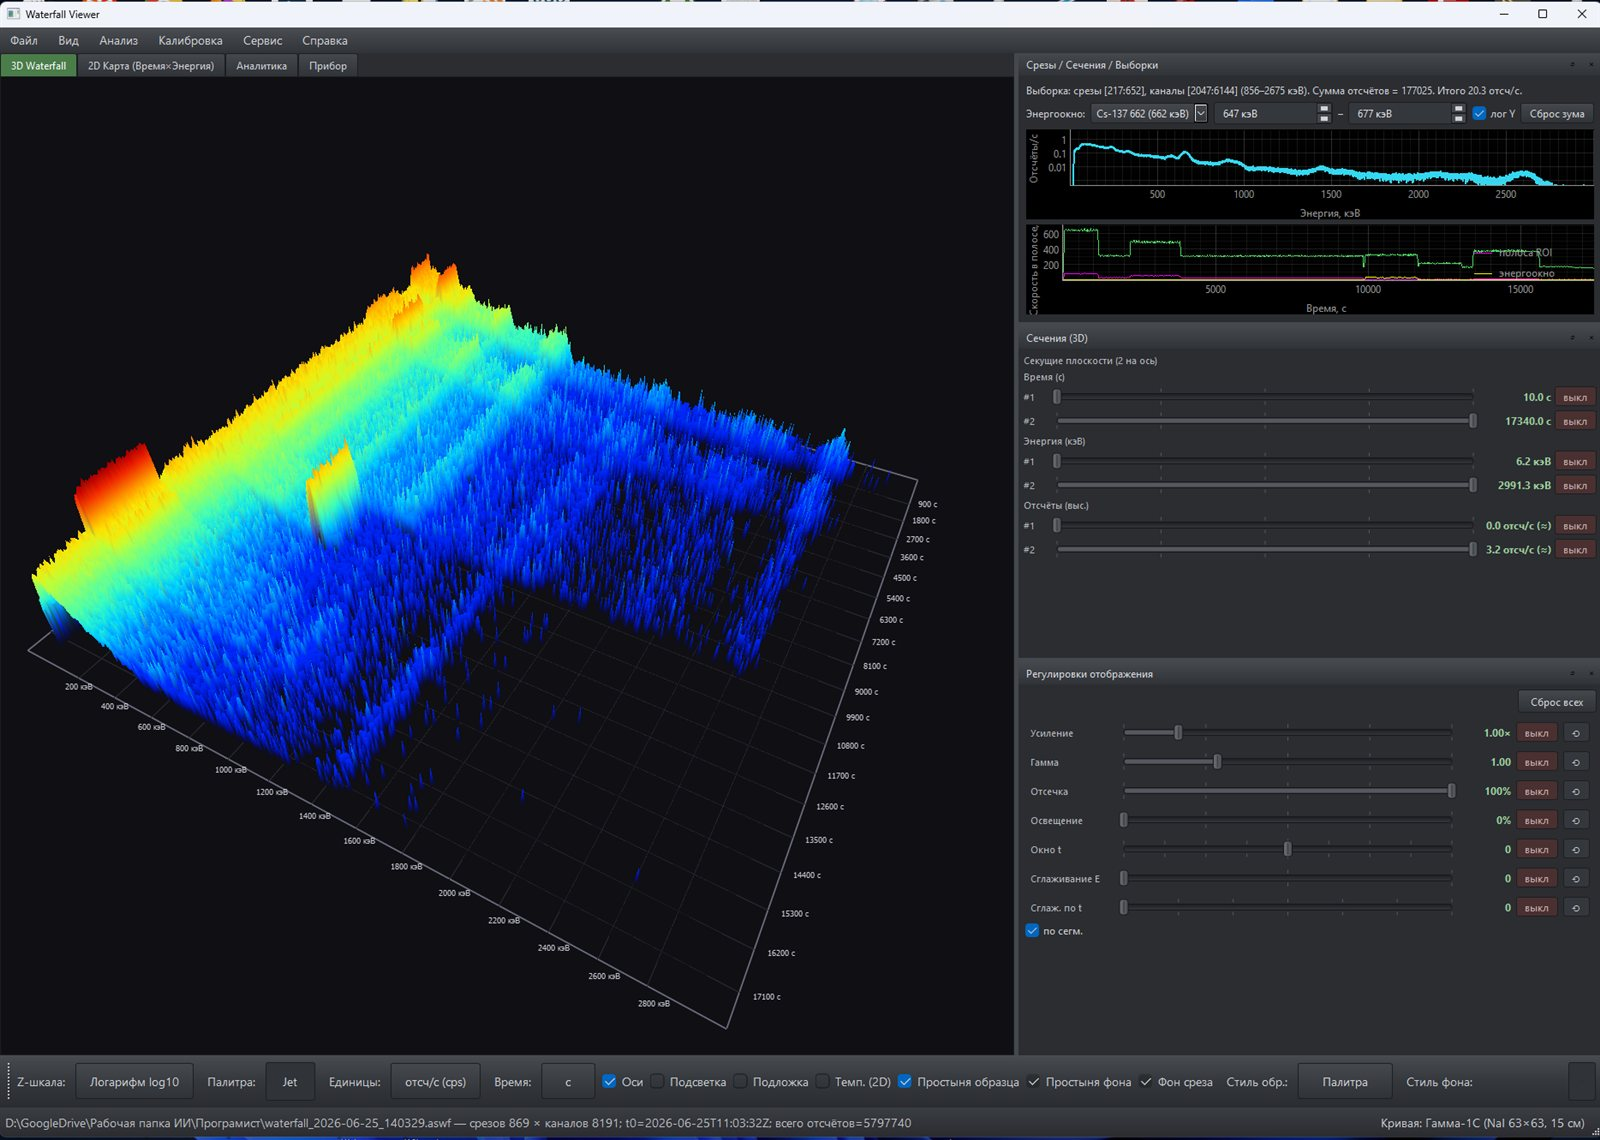
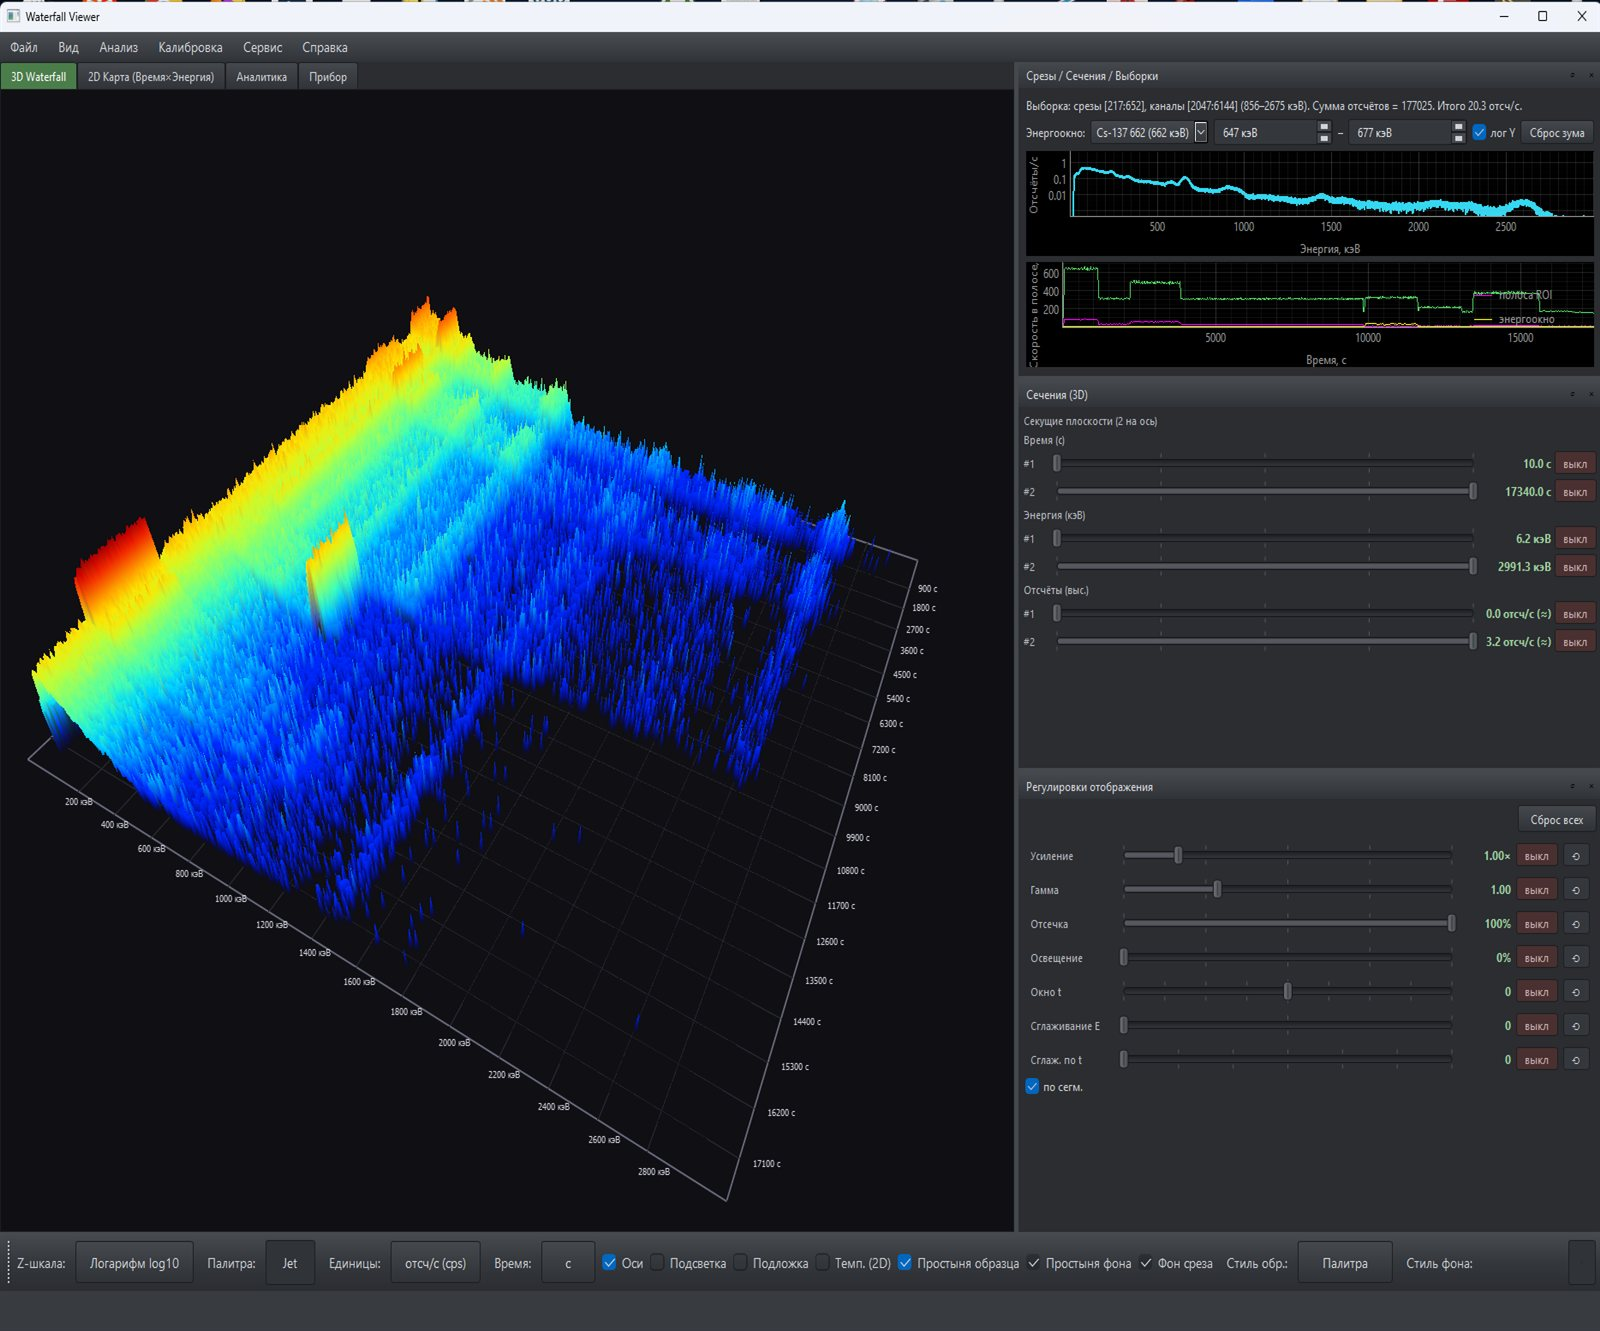
atomspectra-waterfall-family: slider gallery (5 slides incl. viewer waterfalls) + click-to-zoom lightbox; redact file paths in viewer status bars

Changed region(s): [[0.0, 0.9825, 1.0, 1.0]]

diff --git a/atomspectra-waterfall-family/index.html b/atomspectra-waterfall-family/index.html
@@ -214,6 +214,25 @@
   .callout p{margin:0;font-size:13.5px;color:var(--text-dim);}
   .callout strong{color:var(--text);}
 
+  /* слайдер Web UI / водопадов */
+  .slider{margin:22px auto 0;max-width:980px;}
+  .slides{position:relative;border:1px solid var(--border);border-radius:var(--radius);background:var(--panel);overflow:hidden;}
+  .slide{display:none;margin:0;}
+  .slide.active{display:block;}
+  .slide img{width:100%;max-height:620px;object-fit:contain;display:block;cursor:zoom-in;background:var(--panel);}
+  .slide figcaption{font-size:12.5px;color:var(--muted);padding:10px 14px;border-top:1px solid var(--border-soft);text-align:center;}
+  .slider-nav{display:flex;align-items:center;justify-content:center;gap:14px;margin-top:12px;}
+  .s-btn{background:var(--panel);border:1px solid var(--border);color:var(--text-dim);border-radius:100px;width:34px;height:34px;font-size:18px;line-height:1;cursor:pointer;}
+  .s-btn:hover{border-color:var(--accent-border);color:var(--text);}
+  .dots{display:flex;gap:8px;}
+  .dot{width:8px;height:8px;border-radius:50%;background:var(--border);border:none;cursor:pointer;padding:0;}
+  .dot.on{background:var(--accent);}
+  /* лайтбокс */
+  .lb{position:fixed;inset:0;background:rgba(4,7,9,.93);display:none;align-items:center;justify-content:center;z-index:100;padding:28px;cursor:zoom-out;}
+  .lb.open{display:flex;}
+  .lb img{max-width:96vw;max-height:90vh;object-fit:contain;border-radius:8px;box-shadow:0 20px 60px rgba(0,0,0,.6);}
+  .lb .lb-cap{position:fixed;bottom:12px;left:0;right:0;text-align:center;color:#9aa5b0;font-size:13px;pointer-events:none;}
+  .shot img{cursor:zoom-in;}
   footer{border-top:1px solid var(--border-soft);padding:22px 0 34px;}
   .foot-row{display:flex;justify-content:space-between;flex-wrap:wrap;gap:10px;font-size:12.5px;color:var(--muted);}
   footer a:hover{color:var(--accent);}
@@ -398,25 +417,34 @@
       <div class="flow-arrow"><svg viewBox="0 0 16 16" fill="none" stroke="currentColor" stroke-width="1.5"><path d="M1 8h12M9 3l5 5-5 5" stroke-linecap="round" stroke-linejoin="round"/></svg></div>
       <div class="flow-node"><span class="k">Анализ</span><span class="v">waterfall-viewer</span><span class="d">3D/2D спектрограмма, нуклиды</span></div>
     </div>
-    <div style="margin:22px auto 0;max-width:960px;display:grid;grid-template-columns:repeat(auto-fit,minmax(280px,1fr));gap:16px;">
-      <figure style="margin:0;">
-        <div style="border:1px solid var(--border);border-radius:var(--radius);overflow:hidden;background:var(--panel);">
-          <img loading="lazy" src="img/web-waterfall.jpg" style="width:100%;display:block;"
-               alt="Вкладка «Водопад» Web UI шлюза: спектрограмма в палитре Turbo с маркерами линий, запись на flash, срез спектра">
-        </div>
-        <figcaption style="font-size:12.5px;color:var(--muted);margin-top:8px;text-align:center;">
-          Вкладка «Водопад»: спектрограмма на плате, экспорт .n42 / .aswf.
-        </figcaption>
-      </figure>
-      <figure style="margin:0;">
-        <div style="border:1px solid var(--border);border-radius:var(--radius);overflow:hidden;background:var(--panel);">
-          <img loading="lazy" src="img/web-monitor.jpg" style="width:100%;display:block;"
-               alt="Вкладка «Мониторинг» Web UI шлюза: текущий и средний CPS с погрешностями, график по интервалам, таблица отсчётов, выгрузка CSV">
-        </div>
-        <figcaption style="font-size:12.5px;color:var(--muted);margin-top:8px;text-align:center;">
-          Вкладка «Мониторинг»: CPS по интервалам с погрешностями, выгрузка CSV.
-        </figcaption>
-      </figure>
+    <div class="slider" id="webui-slider" aria-roledescription="карусель" aria-label="Вкладки Web UI шлюза">
+      <div class="slides">
+        <figure class="slide active">
+          <img src="img/web-spectrum.jpg" alt="Вкладка «Спектр» Web UI шлюза: живой спектр с маркерами линий Th-232 и K-40, мощность дозы, экспорт XML/CSV/N42/SPE">
+          <figcaption>Вкладка «Спектр»: живой спектр, маркеры линий Th-232 / K-40, мощность дозы, экспорт в 4 формата.</figcaption>
+        </figure>
+        <figure class="slide">
+          <img src="img/web-waterfall.jpg" alt="Вкладка «Водопад» Web UI шлюза: спектрограмма в палитре Turbo с маркерами линий, запись на flash, срез спектра" loading="lazy">
+          <figcaption>Вкладка «Водопад»: спектрограмма на плате, запись во flash, экспорт .n42 / .aswf.</figcaption>
+        </figure>
+        <figure class="slide">
+          <img src="img/web-monitor.jpg" alt="Вкладка «Мониторинг» Web UI шлюза: текущий и средний CPS с погрешностями, график по интервалам, таблица отсчётов, выгрузка CSV" loading="lazy">
+          <figcaption>Вкладка «Мониторинг»: CPS по интервалам с погрешностями, выгрузка CSV.</figcaption>
+        </figure>
+        <figure class="slide">
+          <img src="img/viewer-ui.jpg" alt="waterfall-viewer: 3D-поверхность Время × Энергия × Отсчёты с панелями срезов и сечений" loading="lazy">
+          <figcaption>waterfall-viewer: 3D-водопад суточной записи, панели срезов / сечений / регулировок.</figcaption>
+        </figure>
+        <figure class="slide">
+          <img src="img/viewer-2d.jpg" alt="waterfall-viewer: 2D-карта Время × Энергия с выборкой по энергоокну Cs-137" loading="lazy">
+          <figcaption>waterfall-viewer: 2D-карта Время×Энергия, энергоокно Cs-137 662 кэВ, полоса ROI.</figcaption>
+        </figure>
+      </div>
+      <div class="slider-nav">
+        <button type="button" class="s-btn" data-dir="-1" aria-label="Предыдущий кадр">‹</button>
+        <div class="dots" role="tablist"></div>
+        <button type="button" class="s-btn" data-dir="1" aria-label="Следующий кадр">›</button>
+      </div>
     </div>
   </section>
 
@@ -473,6 +501,58 @@
     <span><a href="https://github.com/VibeEngineering-LLC" target="_blank" rel="noopener">github.com/VibeEngineering-LLC</a></span>
   </div>
 </footer>
+
+<div class="lb" id="lightbox" role="dialog" aria-label="Просмотр изображения">
+  <img id="lb-img" src="" alt="">
+  <div class="lb-cap" id="lb-cap"></div>
+</div>
+
+<script>
+(function(){
+  var slider=document.getElementById('webui-slider');
+  var slides=slider.querySelectorAll('.slide');
+  var dotsBox=slider.querySelector('.dots');
+  var idx=0,timer=null;
+  slides.forEach(function(_,i){
+    var d=document.createElement('button');
+    d.type='button';d.className='dot'+(i===0?' on':'');
+    d.setAttribute('aria-label','Кадр '+(i+1));
+    d.addEventListener('click',function(){go(i);restart();});
+    dotsBox.appendChild(d);
+  });
+  var dots=dotsBox.querySelectorAll('.dot');
+  function go(i){
+    slides[idx].classList.remove('active');dots[idx].classList.remove('on');
+    idx=(i+slides.length)%slides.length;
+    slides[idx].classList.add('active');dots[idx].classList.add('on');
+  }
+  slider.querySelectorAll('.s-btn').forEach(function(b){
+    b.addEventListener('click',function(){go(idx+parseInt(b.dataset.dir,10));restart();});
+  });
+  var reduced=window.matchMedia('(prefers-reduced-motion: reduce)').matches;
+  function start(){if(!reduced){timer=setInterval(function(){go(idx+1);},7000);}}
+  function stop(){if(timer){clearInterval(timer);timer=null;}}
+  function restart(){stop();start();}
+  slider.addEventListener('mouseenter',stop);
+  slider.addEventListener('mouseleave',start);
+  start();
+
+  // лайтбокс: клик по кадру слайдера или скрину карточки
+  var lb=document.getElementById('lightbox'),lbImg=document.getElementById('lb-img'),lbCap=document.getElementById('lb-cap');
+  function openLb(img){
+    lbImg.src=img.src;lbImg.alt=img.alt;
+    var fc=img.closest('figure');var c=fc?fc.querySelector('figcaption'):null;
+    lbCap.textContent=c?c.textContent:(img.alt||'');
+    lb.classList.add('open');stop();
+  }
+  function closeLb(){lb.classList.remove('open');lbImg.src='';start();}
+  document.querySelectorAll('.slide img, .shot img').forEach(function(img){
+    img.addEventListener('click',function(){openLb(img);});
+  });
+  lb.addEventListener('click',closeLb);
+  document.addEventListener('keydown',function(e){if(e.key==='Escape'&&lb.classList.contains('open'))closeLb();});
+})();
+</script>
 
 </body>
 </html>